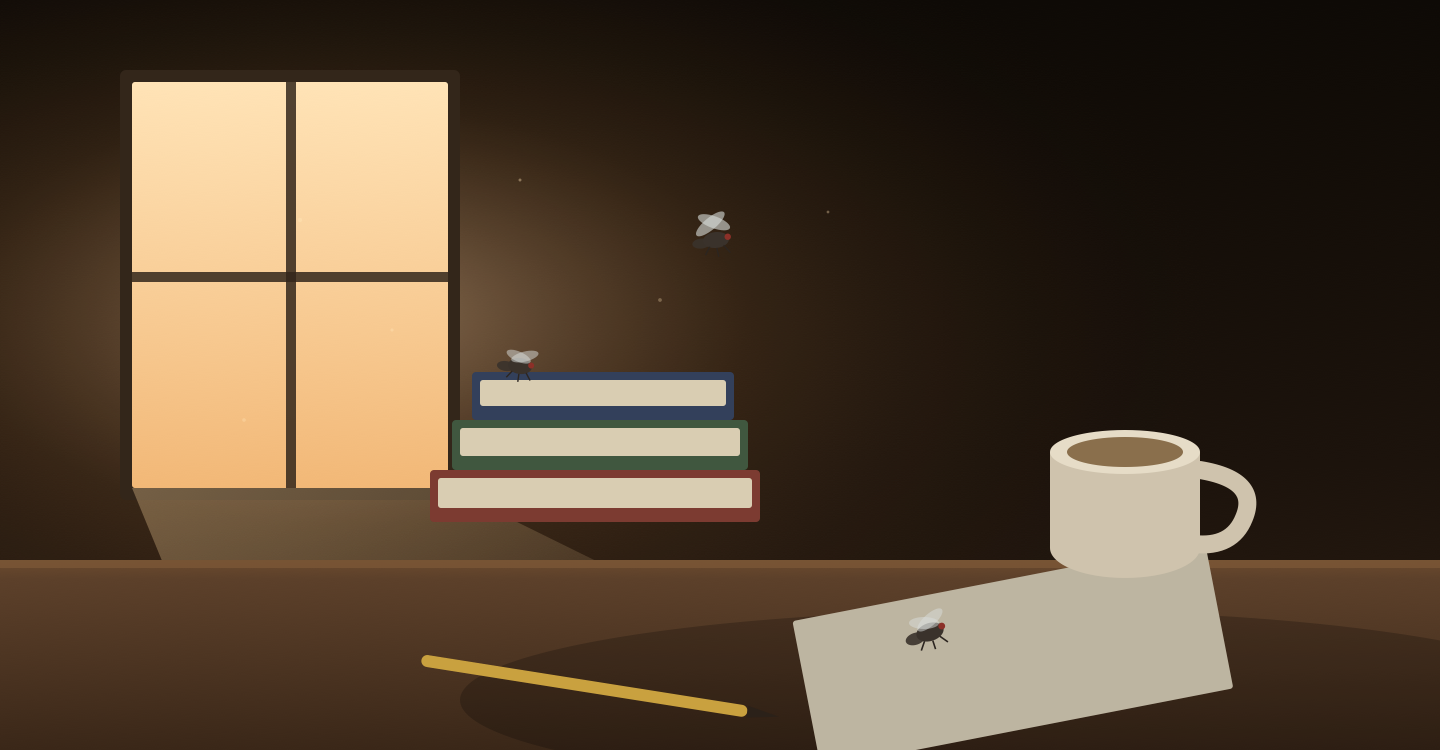
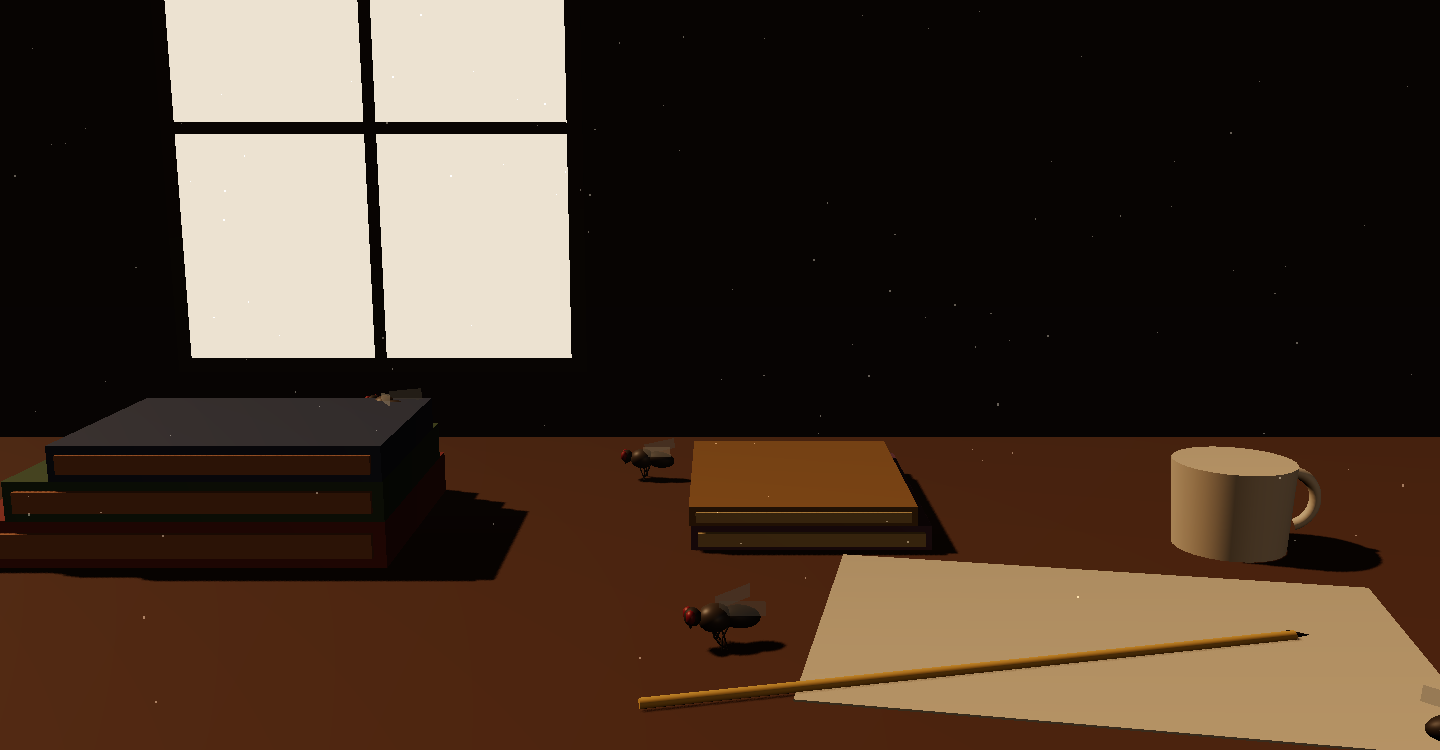
Frame Fly world for the wallpaper and capture its preview from the real scene
The window, the room's only light source, sat off-frame and fully hidden behind its own frame box. The frame now backs the pane with mullions crossing in front, the pane is warmed so ACES tone mapping keeps its amber, and the camera frames desk, books, mug and window together.

The walking and flying bounds now match what the camera actually shows, walking destinations clamp into them, and sugar outside them is ignored rather than luring flies to an unreachable spot. A click's cube clamps into the room as well.

The gallery preview is now a real render of the scene, captured headless, in place of the stylized stand-in.

diff --git a/scenes/flyscape/src/fly.js b/scenes/flyscape/src/fly.js
@@ -179,13 +179,14 @@ function createFly(index, random) {
     turnRate: 0,
     random,
   };
-  // Start scattered on the desk, all facing somewhere different.
+  // Start scattered on the desk, all facing somewhere different, inside the frame the
+  // camera actually shows.
   const angle = random() * TAU;
-  const radius = 2.5 + random() * 5;
+  const radius = 2.2 + random() * 3.4;
   fly.group.position.set(
     Math.cos(angle) * radius,
     0.004,
-    Math.sin(angle) * radius * 0.55 - 0.4,
+    Math.sin(angle) * radius * 0.45 + 0.3,
   );
   fly.group.rotation.y = fly.heading;
   return fly;
@@ -231,6 +232,17 @@ export function createFlies(scene, {
     return false;
   }
 
+  // Sugar outside the room's bounds is sugar no fly can ever reach; the walk would
+  // press a fly against an invisible wall with the cube still out of reach.
+  function reachable(point) {
+    return (
+      point.x >= bounds.minX &&
+      point.x <= bounds.maxX &&
+      point.z >= bounds.minZ &&
+      point.z <= bounds.maxZ
+    );
+  }
+
   // A walking destination on the fly's current surface, never inside a book or the mug.
   function pickWalkTarget(fly) {
     const top = fly.surface ? fly.surface.top : 0;
@@ -244,6 +256,10 @@ export function createFlies(scene, {
         x = bounds.minX + fly.random() * (bounds.maxX - bounds.minX);
         z = bounds.minZ + fly.random() * (bounds.maxZ - bounds.minZ);
       }
+      // A book is wider than the room's walking bounds; a destination off the edge of
+      // the frame would park a fly where nobody can see it.
+      x = clamp(x, bounds.minX, bounds.maxX);
+      z = clamp(z, bounds.minZ, bounds.maxZ);
       if (!insideObstacle(x, top + 0.1, z, 0.22)) {
         fly.target.set(x, top, z);
         fly.targetKind = "wander";
@@ -259,7 +275,7 @@ export function createFlies(scene, {
   function pickFlightTarget(fly, ctx, drive, fleeing) {
     if (!fleeing && drive.hungry) {
       const food = ctx.food.nearest(fly.group.position, 12);
-      if (food) {
+      if (food && reachable(food.position)) {
         fly.target.set(food.position.x, food.position.y + 0.35, food.position.z);
         fly.targetKind = "food";
         fly.targetFood = food;
@@ -325,7 +341,8 @@ export function createFlies(scene, {
       case "rest": {
         fly.timer -= dt;
         if (fly.timer > 0) break;
-        const food = drive.hungry ? ctx.food.nearest(position, 10) : null;
+        const candidate = drive.hungry ? ctx.food.nearest(position, 10) : null;
+        const food = candidate && reachable(candidate.position) ? candidate : null;
         if (food) {
           if (supportHeight(food.position.x, food.position.z) === currentTop) {
             fly.target.set(food.position.x, food.position.y, food.position.z);
@@ -404,8 +421,8 @@ export function createFlies(scene, {
           angleDelta(fly.heading, Math.atan2(toTarget.x, toTarget.z)) * Math.min(1, dt * 6);
         fly.heading += drive.steer * dt * 0.5;
         const step = Math.min(distance, WALK_SPEED * dt);
-        const nextX = position.x + Math.sin(fly.heading) * step;
-        const nextZ = position.z + Math.cos(fly.heading) * step;
+        const nextX = clamp(position.x + Math.sin(fly.heading) * step, bounds.minX, bounds.maxX);
+        const nextZ = clamp(position.z + Math.cos(fly.heading) * step, bounds.minZ, bounds.maxZ);
         const nextGround = supportHeight(nextX, nextZ);
         if (fly.surface && nextGround < fly.surface.top - 0.05) {
           // The book ran out under the feet: fly the rest of the way.
@@ -519,6 +536,8 @@ export function createFlies(scene, {
         if (distance > 0.05) {
           delta.divideScalar(distance);
           position.addScaledVector(delta, Math.min(distance, dt * 0.8));
+          position.x = clamp(position.x, bounds.minX, bounds.maxX);
+          position.z = clamp(position.z, bounds.minZ, bounds.maxZ);
           fly.heading += angleDelta(fly.heading, Math.atan2(delta.x, delta.z)) * dt * 8;
         }
         if (position.y <= fly.target.y + 0.01) {
@@ -552,8 +571,11 @@ export function createFlies(scene, {
         delta.copy(food.position).sub(position);
         delta.y = 0;
         const distance = delta.length();
-        if (distance > 0.25)
+        if (distance > 0.25) {
           position.addScaledVector(delta.divideScalar(distance), Math.min(distance - 0.22, dt * 0.5));
+          position.x = clamp(position.x, bounds.minX, bounds.maxX);
+          position.z = clamp(position.z, bounds.minZ, bounds.maxZ);
+        }
         fly.heading +=
           angleDelta(
             fly.heading,

diff --git a/scenes/flyscape/src/environment.js b/scenes/flyscape/src/environment.js
@@ -12,19 +12,21 @@ import { randomGenerator, vec } from "./math.js";
 // destination when it has no better reason.
 
 export const DESK = Object.freeze({ halfWidth: 16.5, halfDepth: 7.6, top: 0 });
+// The walking and flying bounds are the part of the desk the camera actually shows;
+// a fly at the frame's edge is a fly nobody can watch.
 export const BOUNDS = Object.freeze({
-  minX: -13.2,
-  maxX: 13.2,
+  minX: -8,
+  maxX: 7,
   minY: 0.02,
   maxY: 7.8,
-  minZ: -5.6,
-  maxZ: 6.4,
+  minZ: -5.2,
+  maxZ: 4,
 });
 
 const BOOKS = [
-  { x: -6.6, z: -2.7, width: 4.9, height: 0.56, depth: 3.3, colour: 0x7c3b31, title: 0x9c6b46 },
-  { x: -6.32, z: -2.52, width: 4.35, height: 0.48, depth: 3.0, colour: 0x40573f, title: 0x9c6b46 },
-  { x: -6.05, z: -2.36, width: 3.8, height: 0.42, depth: 2.7, colour: 0x33405b, title: 0x9c6b46 },
+  { x: -6.6, z: -2.7, width: 4.9, height: 0.56, depth: 3.3, colour: 0x8a4438, title: 0xa8764e },
+  { x: -6.32, z: -2.52, width: 4.35, height: 0.48, depth: 3.0, colour: 0x4a6349, title: 0xa8764e },
+  { x: -6.05, z: -2.36, width: 3.8, height: 0.42, depth: 2.7, colour: 0x3d4c6a, title: 0xa8764e },
 ];
 const PAPERBACKS = [
   { x: 0.8, z: -3.5, width: 2.9, height: 0.3, depth: 3.6, colour: 0x6b4a63, title: 0xb9a06a },
@@ -96,7 +98,7 @@ export function createEnvironment(scene) {
   // The room behind: one wall, dark enough that the window reads as its light source.
   const wall = new THREE.Mesh(
     new THREE.PlaneGeometry(56, 22),
-    new THREE.MeshStandardMaterial({ color: 0x241b13, roughness: 1 }),
+    new THREE.MeshStandardMaterial({ color: 0x2b2116, roughness: 1 }),
   );
   wall.position.set(0, 7, -8.4);
   wall.receiveShadow = true;
@@ -104,19 +106,32 @@ export function createEnvironment(scene) {
 
   // The window: a pane of late sun. Emissive rather than lit, so it stays the brightest
   // thing in the room and the flies' landmark. Its values run above 1 on purpose; tone
-  // mapping brings them back down as glow.
-  const pane = new THREE.Mesh(
-    new THREE.PlaneGeometry(7.4, 8.6),
-    new THREE.MeshBasicMaterial({ color: new THREE.Color(1.55, 1.16, 0.72) }),
-  );
-  pane.position.set(-8.2, 4.7, -8.32);
-  scene.add(pane);
+  // mapping brings them back down as glow. The frame is the backing the pane sits on,
+  // with mullions crossing in front — a frame box in front of the pane would simply
+  // hide the light it frames. It sits inside the camera's view: the room's light source
+  // has to be visible or the desk reads as lit by nothing.
   const frame = new THREE.Mesh(
-    new THREE.BoxGeometry(7.9, 9.1, 0.16),
+    new THREE.BoxGeometry(6.9, 8.1, 0.2),
     new THREE.MeshStandardMaterial({ color: 0x33261a, roughness: 0.9 }),
   );
-  frame.position.set(-8.2, 4.7, -8.38);
+  frame.position.set(-6.0, 5.0, -8.46);
   scene.add(frame);
+  const pane = new THREE.Mesh(
+    new THREE.PlaneGeometry(6.4, 7.6),
+    // Above 1 so it is the brightest thing in the room, but only a little: pushed much
+    // higher, ACES tone mapping rolls the amber off to white. Fog stays off the pane so
+    // the far wall's haze does not grey the light itself.
+    new THREE.MeshBasicMaterial({ color: new THREE.Color(1.25, 0.88, 0.52), fog: false }),
+  );
+  pane.position.set(-6.0, 5.0, -8.3);
+  scene.add(pane);
+  const mullion = new THREE.MeshStandardMaterial({ color: 0x33261a, roughness: 0.9 });
+  const crossbar = new THREE.Mesh(new THREE.BoxGeometry(6.4, 0.18, 0.06), mullion);
+  crossbar.position.set(-6.0, 5.0, -8.26);
+  scene.add(crossbar);
+  const upright = new THREE.Mesh(new THREE.BoxGeometry(0.18, 7.6, 0.06), mullion);
+  upright.position.set(-6.0, 5.0, -8.26);
+  scene.add(upright);
 
   // The book stacks and the mug. The stacks land off-centre so the desk's open middle
   // stays clear for walking and for food.
@@ -196,7 +211,7 @@ export function createEnvironment(scene) {
     { name: "books", point: vec(-6.1, big.top + 0.5, -2.5) },
     { name: "paperbacks", point: vec(0.75, small.top + 0.5, -3.4) },
     { name: "mug", point: vec(MUG.x, MUG.height + 0.5, MUG.z) },
-    { name: "window", point: vec(-7.4, 5.1, -7.4) },
+    { name: "window", point: vec(-5.2, 5.2, -4.6) },
   ];
 
   // The height a walking fly stands on at (x, z): the highest ledge whose top covers the

diff --git a/scenes/flyscape/src/main.js b/scenes/flyscape/src/main.js
@@ -5,7 +5,7 @@ import { createEnvironment, createMotes } from "./environment.js";
 import { createFlies } from "./fly.js";
 import { createFood } from "./food.js";
 import { createBrain } from "./brain.js";
-import { randomGenerator } from "./math.js";
+import { clamp, randomGenerator } from "./math.js";
 import { createFrameLoop } from "../../shared/frame-loop.js";
 import { renderSettings, framebufferSize } from "./render-policy.js";
 
@@ -66,7 +66,7 @@ async function start() {
   renderer.info.autoReset = false;
   renderer.shadowMap.type = THREE.PCFShadowMap;
   renderer.toneMapping = THREE.ACESFilmicToneMapping;
-  renderer.toneMappingExposure = 1.05;
+  renderer.toneMappingExposure = 1.12;
   renderer.outputColorSpace = THREE.SRGBColorSpace;
 
   const scene = new THREE.Scene();
@@ -74,17 +74,17 @@ async function start() {
   // A warm haze thickens toward the back wall, so the window glows through the room
   // while the near desk keeps its contrast.
   scene.fog = new THREE.FogExp2("#1c130c", 0.022);
-  const camera = new THREE.PerspectiveCamera(26, 1420 / 740, 0.2, 70);
-  camera.position.set(0, 5.4, 13.2);
-  camera.lookAt(0, 2.1, -0.7);
+  const camera = new THREE.PerspectiveCamera(32, 1420 / 740, 0.2, 70);
+  camera.position.set(-0.3, 5.0, 13.4);
+  camera.lookAt(-0.3, 2.3, -0.9);
 
   // Dusk indoors: a dim sky and a weak bounce, plus the window's low sun as the key.
   // The lower bound of the hemisphere sits almost black so the desk falls away into
   // shadow at the frame's edges.
-  scene.add(new THREE.HemisphereLight(0x8d7c66, 0x1c130d, 0.34));
+  scene.add(new THREE.HemisphereLight(0x8d7c66, 0x1c130d, 0.46));
   const key = new THREE.DirectionalLight(0xffcf9e, 2.7);
-  key.position.set(-9, 10, -1.6);
-  key.target.position.set(3, 0, 1.4);
+  key.position.set(-7.5, 10, -1.4);
+  key.target.position.set(1.6, 0, 1.2);
   key.castShadow = true;
   key.shadow.mapSize.set(settings.shadowSize, settings.shadowSize);
   Object.assign(key.shadow.camera, {
@@ -99,10 +99,10 @@ async function start() {
   key.shadow.normalBias = 0.02;
   key.shadow.radius = 3 * settings.shadowSize / 4096;
   scene.add(key, key.target);
-  const fill = new THREE.DirectionalLight(0x5d6f85, 0.5);
+  const fill = new THREE.DirectionalLight(0x5d6f85, 0.55);
   fill.position.set(7, 5, 9);
   scene.add(fill);
-  const bounce = new THREE.DirectionalLight(0xc4a276, 0.3);
+  const bounce = new THREE.DirectionalLight(0xc4a276, 0.45);
   bounce.position.set(4, 2, 12);
   scene.add(bounce);
 
@@ -162,7 +162,13 @@ async function start() {
       ),
       camera,
     );
-    if (raycaster.ray.intersectPlane(worldPlane, dropPoint)) food.drop(dropPoint);
+    if (raycaster.ray.intersectPlane(worldPlane, dropPoint)) {
+      // Keep a click's sugar inside the room: a cube outside the walking bounds would
+      // draw flies to a spot they can never actually reach.
+      dropPoint.x = clamp(dropPoint.x, environment.bounds.minX + 0.4, environment.bounds.maxX - 0.4);
+      dropPoint.z = clamp(dropPoint.z, environment.bounds.minZ + 0.4, environment.bounds.maxZ - 0.4);
+      food.drop(dropPoint);
+    }
   });
   // The same pinch without a click, for the wallpaper's menu: the cursor is up in the
   // menu bar at that moment, so a scatter goes over the open desk instead.
